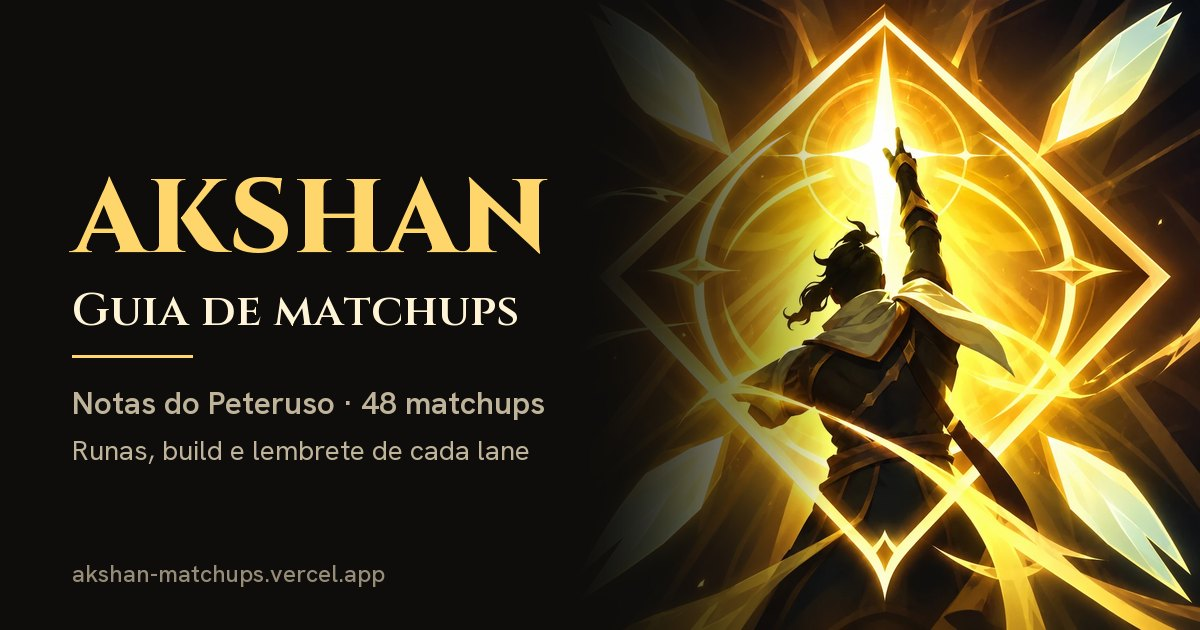
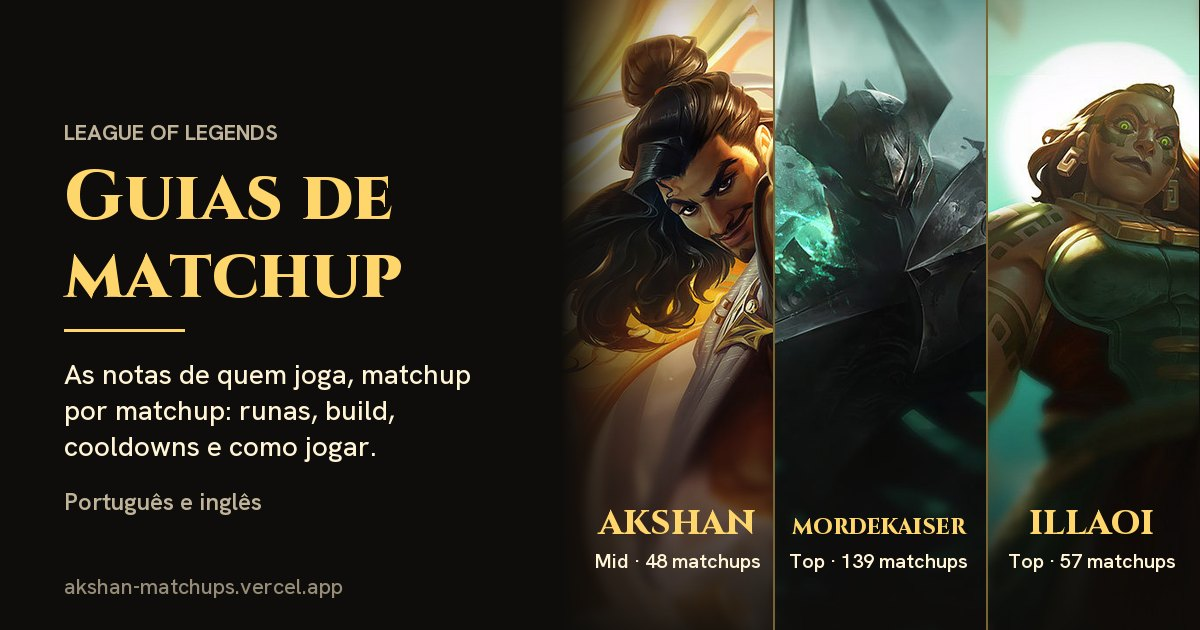
Prévia do link com os três guias
og.jpg com uma faixa da splash de cada guia (Akshan, Mordekaiser, Illaoi),
rota e número de matchups; texto alternativo gerado pelo build e ?v=2 para as
redes trocarem a prévia guardada.

diff --git a/index.html b/index.html
@@ -12,10 +12,11 @@
 <meta property="og:title" content="Guias de matchup · Akshan, Mordekaiser e Illaoi">
 <meta property="og:description" content="Guias de matchup de League of Legends com as notas de quem joga: Akshan mid (Peteruso), Mordekaiser top (Meowdekaiser) e Illaoi top (Hachiragi). Runas, build, cooldowns e como jogar cada confronto, em português e inglês.">
 <meta property="og:url" content="https://akshan-matchups.vercel.app/">
-<meta property="og:image" content="https://akshan-matchups.vercel.app/og.jpg">
+<!-- O ?v= muda quando a imagem muda: WhatsApp e X guardam a prévia antiga pelo endereço. -->
+<meta property="og:image" content="https://akshan-matchups.vercel.app/og.jpg?v=2">
 <meta property="og:image:width" content="1200">
 <meta property="og:image:height" content="630">
-<meta property="og:image:alt" content="Akshan erguendo o braço dentro de um losango dourado de luz, ao lado do título Guia de matchups">
+<meta property="og:image:alt" content="Faixas das splash arts de Akshan, Mordekaiser e Illaoi ao lado do título Guias de matchup">
 <meta property="og:locale" content="pt_BR">
 <meta name="twitter:card" content="summary_large_image">
[1 lines of base64/hex data omitted]

diff --git a/src/template.html b/src/template.html
@@ -12,10 +12,11 @@
 <meta property="og:title" content="/*TITULO_OG*/">
 <meta property="og:description" content="/*DESCRICAO*/">
 <meta property="og:url" content="https://akshan-matchups.vercel.app/">
-<meta property="og:image" content="https://akshan-matchups.vercel.app/og.jpg">
+<!-- O ?v= muda quando a imagem muda: WhatsApp e X guardam a prévia antiga pelo endereço. -->
+<meta property="og:image" content="https://akshan-matchups.vercel.app/og.jpg?v=2">
 <meta property="og:image:width" content="1200">
 <meta property="og:image:height" content="630">
-<meta property="og:image:alt" content="Akshan erguendo o braço dentro de um losango dourado de luz, ao lado do título Guia de matchups">
+<meta property="og:image:alt" content="/*OG_ALT*/">
 <meta property="og:locale" content="pt_BR">
 <meta name="twitter:card" content="summary_large_image">
 <link rel="icon" type="image/png" sizes="64x64" href="/*ICONE*/">

diff --git a/scripts/og.py b/scripts/og.py
@@ -1,11 +1,14 @@
 """Gera og.jpg (1200x630), a imagem que aparece quando o link do site é compartilhado.
 
-Usa a arte de src/icone/original.webp e as fontes de src/fonts. Rode de novo se mudar o
-número de matchups ou a arte: python scripts/og.py
+Mostra todos os guias do src/guias.json: uma faixa da splash de cada campeão (Data Dragon) com o nome,
+a rota e o número de matchups. Precisa de internet para baixar as splashes. Rode de novo quando entrar
+ou sair um guia: python scripts/og.py
 """
+import io
 import json
 import pathlib
 import re
+import urllib.request
 
 from PIL import Image, ImageDraw, ImageFont
 
@@ -13,9 +16,8 @@ ROOT = pathlib.Path(__file__).resolve().parent.parent
 SRC = ROOT / "src"
 W, H = 1200, 630
 FUNDO, OURO, CREME, BAIXO = (14, 13, 11), (255, 214, 107), (255, 244, 214), (191, 179, 154)
-
-bruto = (SRC / "guias" / "akshan" / "rows.js").read_text(encoding="utf-8").strip().rstrip(";")
-n = len(json.loads(re.sub(r",\s*\]$", "]", bruto)))
+# Onde fica o rosto na splash centralizada (fração da largura), para a faixa estreita não cortar a cabeça.
+ROSTO = {"Akshan": .45, "Mordekaiser": .5, "Illaoi": .47}
 
 
 def fonte(arquivo, tam, peso=None):
@@ -28,23 +30,67 @@ def fonte(arquivo, tam, peso=None):
     return f
 
 
-img = Image.new("RGB", (W, H), FUNDO)
-arte = Image.open(SRC / "icone" / "original.webp").convert("RGB").resize((H, H), Image.LANCZOS)
-# A arte entra pela direita e some no fundo escuro à esquerda.
-mascara = Image.new("L", (H, H), 255)
-d = ImageDraw.Draw(mascara)
-for x in range(260):
-    d.line([(x, 0), (x, H)], fill=int(255 * (x / 260) ** 1.6))
-img.paste(arte, (W - H, 0), mascara)
+def n_matchups(cfg):
+    pasta = SRC / cfg["dados"]
+    if cfg["formato"] == "simples":
+        bruto = (pasta / "rows.js").read_text(encoding="utf-8").strip().rstrip(";")
+        return len(json.loads(re.sub(r",\s*\]$", "]", bruto)))
+    return len(json.loads((pasta / "matchups.json").read_text(encoding="utf-8"))["matchups"])
 
+
+def splash(campeao):
+    url = f"https://ddragon.leagueoflegends.com/cdn/img/champion/centered/{campeao}_0.jpg"
+    with urllib.request.urlopen(url, timeout=30) as r:
+        return Image.open(io.BytesIO(r.read())).convert("RGB")
+
+
+guias = [g for g in json.loads((SRC / "guias.json").read_text(encoding="utf-8")) if not g.get("oculto")]
+img = Image.new("RGB", (W, H), FUNDO)
 d = ImageDraw.Draw(img)
-x = 72
-d.text((x, 150), "AKSHAN", font=fonte("Cinzel-normal.woff2", 104, 800), fill=OURO)
-d.text((x, 280), "Guia de matchups", font=fonte("Cinzel-normal.woff2", 46, 600), fill=CREME)
-d.line([(x, 356), (x + 120, 356)], fill=OURO, width=3)
-d.text((x, 382), f"Notas do Peteruso · {n} matchups", font=fonte("HankenGrotesk-normal.woff2", 32, 600), fill=BAIXO)
-d.text((x, 432), "Runas, build e lembrete de cada lane", font=fonte("HankenGrotesk-normal.woff2", 28, 400), fill=BAIXO)
-d.text((x, H - 72), "akshan-matchups.vercel.app", font=fonte("HankenGrotesk-normal.woff2", 24, 500), fill=(150, 140, 120))
+
+# Faixas das splashes à direita, uma por guia, separadas por um fio dourado.
+x0, larg = 560, (W - 560) // len(guias)
+for i, g in enumerate(guias):
+    s = splash(g["campeao"])
+    s = s.resize((round(s.width * H / s.height), H), Image.LANCZOS)
+    centro = round(s.width * ROSTO.get(g["campeao"], .5))
+    faixa = s.crop((centro - larg // 2, 0, centro - larg // 2 + larg, H))
+    # Escurece embaixo para o nome ficar legível.
+    sombra = Image.new("L", (larg, H), 0)
+    ds = ImageDraw.Draw(sombra)
+    for y in range(H // 2, H):
+        ds.line([(0, y), (larg, y)], fill=int(215 * ((y - H // 2) / (H // 2)) ** 1.4))
+    faixa.paste(Image.new("RGB", (larg, H), FUNDO), (0, 0), sombra)
+    img.paste(faixa, (x0 + i * larg, 0))
+    if i:
+        d.line([(x0 + i * larg, 0), (x0 + i * larg, H)], fill=(120, 100, 50), width=2)
+
+# A primeira faixa some no fundo escuro pela esquerda.
+mascara = Image.new("L", (120, H), 0)
+dm = ImageDraw.Draw(mascara)
+for x in range(120):
+    dm.line([(x, 0), (x, H)], fill=int(255 * (1 - x / 120) ** 1.5))
+img.paste(Image.new("RGB", (120, H), FUNDO), (x0, 0), mascara)
+
+# Nome, rota e número de matchups embaixo de cada faixa (o nome encolhe até caber).
+for i, g in enumerate(guias):
+    cx = x0 + i * larg + larg // 2 + (12 if i == 0 else 0)
+    nome, tam = g["campeao"].upper(), 34
+    while d.textlength(nome, font=fonte("Cinzel-normal.woff2", tam, 800)) > larg - 28:
+        tam -= 1
+    d.text((cx, H - 96), nome, font=fonte("Cinzel-normal.woff2", tam, 800), fill=OURO, anchor="ms")
+    d.text((cx, H - 62), f"{g.get('rota', '')} · {n_matchups(g)} matchups", font=fonte("HankenGrotesk-normal.woff2", 20, 600), fill=CREME, anchor="ms")
+
+x = 64
+d.text((x, 118), "LEAGUE OF LEGENDS", font=fonte("HankenGrotesk-normal.woff2", 22, 700), fill=BAIXO)
+d.text((x, 150), "Guias de", font=fonte("Cinzel-normal.woff2", 70, 800), fill=OURO)
+d.text((x, 228), "matchup", font=fonte("Cinzel-normal.woff2", 70, 800), fill=OURO)
+d.line([(x, 330), (x + 120, 330)], fill=OURO, width=3)
+d.text((x, 356), "As notas de quem joga, matchup", font=fonte("HankenGrotesk-normal.woff2", 28, 500), fill=CREME)
+d.text((x, 392), "por matchup: runas, build,", font=fonte("HankenGrotesk-normal.woff2", 28, 500), fill=CREME)
+d.text((x, 428), "cooldowns e como jogar.", font=fonte("HankenGrotesk-normal.woff2", 28, 500), fill=CREME)
+d.text((x, 486), "Português e inglês", font=fonte("HankenGrotesk-normal.woff2", 24, 600), fill=BAIXO)
+d.text((x, H - 58), "akshan-matchups.vercel.app", font=fonte("HankenGrotesk-normal.woff2", 22, 500), fill=(150, 140, 120))
 
 img.save(ROOT / "og.jpg", "JPEG", quality=86, optimize=True, progressive=True)
 print("og.jpg", (ROOT / "og.jpg").stat().st_size // 1024, "KB")

diff --git a/scripts/build.py b/scripts/build.py
@@ -114,7 +114,8 @@ descricao = ("Guias de matchup de League of Legends com as notas de quem joga: "
              + em_lista([f"{g['campeao']['nome']} {(g.get('rota') or '').lower()} ({g['autor']})" for g in guias])
              + ". Runas, build, cooldowns e como jogar cada confronto, em português e inglês.")
 titulo_og = "Guias de matchup · " + em_lista([g["campeao"]["nome"] for g in guias])
-template = template.replace("/*DESCRICAO*/", html_lib.escape(descricao)).replace("/*TITULO_OG*/", html_lib.escape(titulo_og)).replace(
+og_alt = "Faixas das splash arts de " + em_lista([g["campeao"]["nome"] for g in guias]) + " ao lado do título Guias de matchup"
+template = template.replace("/*DESCRICAO*/", html_lib.escape(descricao)).replace("/*TITULO_OG*/", html_lib.escape(titulo_og)).replace("/*OG_ALT*/", html_lib.escape(og_alt)).replace(
     "/*VER_DD*/", (SRC / "versao_dd.txt").read_text(encoding="utf-8").strip())
 
 html = template.replace("/*ICONE*/", icone("icone-64.png")).replace("/*ICONE_APPLE*/", icone("apple-180.png")).replace("/*IDS*/", json.dumps([g["id"] for g in guias])).replace("/*FONTS*/", font_faces()).replace(

diff --git a/README.md b/README.md
@@ -40,7 +40,7 @@ Um guia pode ser escondido com `"oculto": true` em `src/guias.json` (os dados co
 - Tier list: botão embaixo da lista, agrupa os campeões pela dificuldade (cor da planilha). Ao vivo: o card "Acompanhe" consulta o decapi.me a cada 5 min e marca quem está em live na Twitch.
 - `meta.json > feitico_extra`: feitiço somado ao da planilha numa matchup, combinado com o dono do site (hoje Zoe: + Cleanse). Some sozinho se a planilha passar a ter esse feitiço.
 - `meta.json > pecas_manuais`: ícones escolhidos à mão para célula sem imagem na planilha (hoje a build do Malphite: Terminus + Gume do Infinito); vale enquanto o texto da célula for o mesmo.
-- `og.jpg` e `scripts/og.py`: a imagem da prévia quando o link é compartilhado (WhatsApp, Discord, X). Rode `python scripts/og.py` se mudar a arte ou o número de matchups.
+- `og.jpg` e `scripts/og.py`: a imagem da prévia quando o link é compartilhado (WhatsApp, Discord, X), com uma faixa da splash de cada guia. Rode `python scripts/og.py` quando entrar ou sair um guia e aumente o `?v=` do `og:image` no template (as redes guardam a prévia antiga pelo endereço).
 - `src/icone/`: ícone da aba (`icone-64.png`) e da tela inicial do celular (`apple-180.png`), também embutidos pelo build; `original.webp` é a arte de origem.
 - `scripts/build.py`: gera o `index.html`. Rode `python scripts/build.py` depois de qualquer mudança.
 - `src/versao_dd.txt` e `scripts/versao_dd.py`: a versão do Data Dragon (patch do LoL) de ícones, nomes e cooldowns, a mesma para o site e para os scripts. O workflow diário troca para o patch mais novo sozinho; à mão, `python scripts/versao_dd.py` e depois os `atualizar_*.py`.
